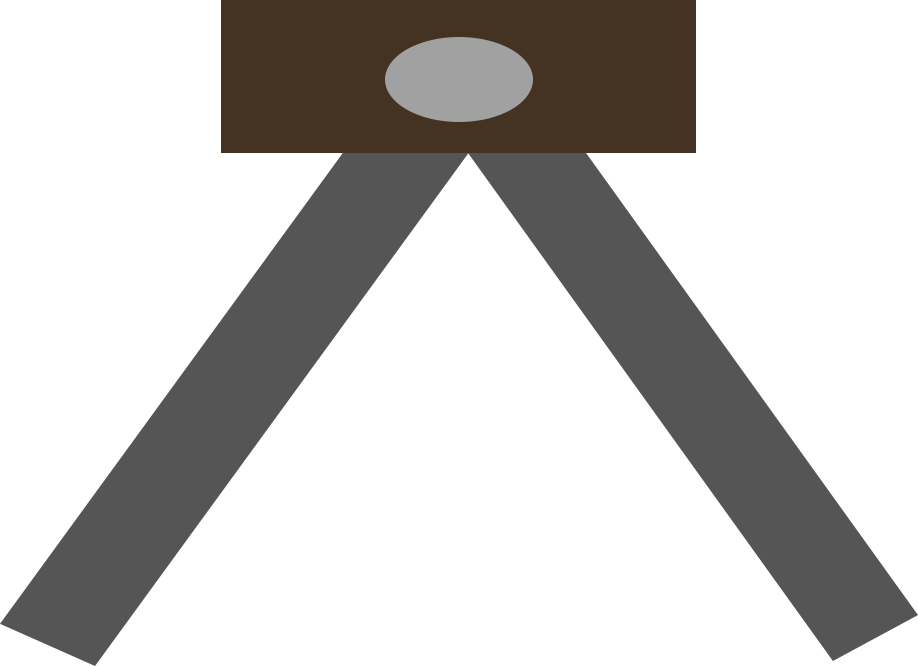
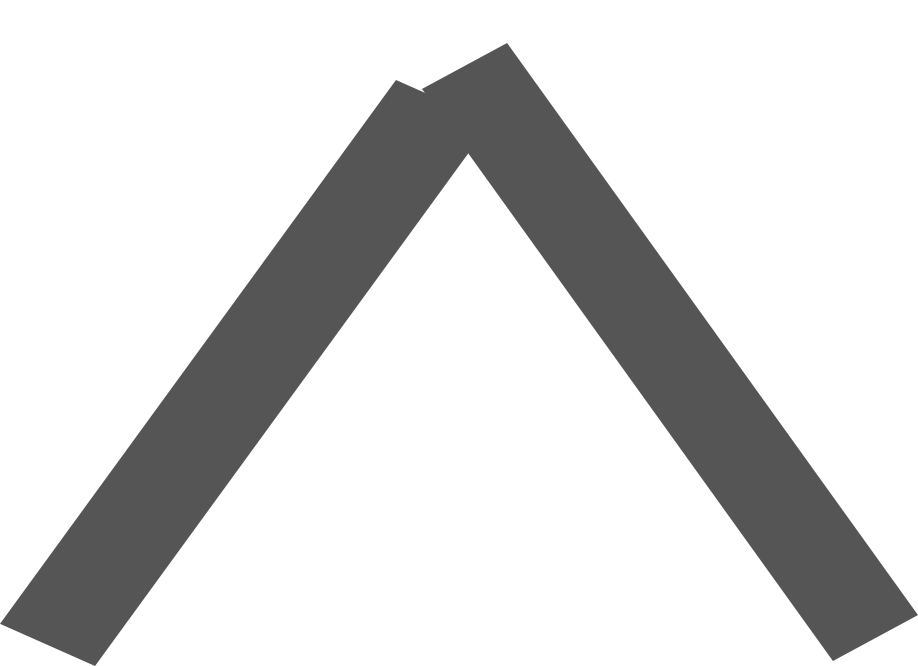
lever 1 more functionality added

Changed region(s): [[0.2135, 0.0, 0.7625, 0.2402]]

diff --git a/pocket_prayogshala/lib/lever1.dart b/pocket_prayogshala/lib/lever1.dart
@@ -1,6 +1,7 @@
 import 'dart:async';
 import 'dart:ffi';
 import 'dart:math';
+import 'dart:ui' hide TextStyle;
 import 'package:flame/events.dart';
 import 'package:flame/experimental.dart';
 import 'package:flutter/material.dart';
@@ -30,6 +31,7 @@ class Lever1Game extends FlameGame with DragCallbacks {
   SpriteComponent plankRod = SpriteComponent();
   SpriteComponent fulcrum = SpriteComponent();
   SpriteComponent grass = SpriteComponent();
+  // TextComponent weight = TextComponent('10kg');
   List<MyDragSpriteComponent> weights = [];
   List<MyDragSpriteComponent> humans = [];
   List<int> takenPosition = [0, 0, 0, 0, 0, 0, 0, 0, 0, 0];
@@ -45,6 +47,8 @@ class Lever1Game extends FlameGame with DragCallbacks {
   List<Vector2> snappablePositionsMain = [];
   late double gap;
 
+  late final style = TextStyle(color: Color(0xffffffff));
+  late final regular = TextPaint(style: style);
   // !!!!!!!!!!!!
   // this might not work for testing
   // @override
@@ -68,10 +72,11 @@ class Lever1Game extends FlameGame with DragCallbacks {
     add(backgroundImage);
 
     plankRod
-      ..anchor = Anchor.center
+      ..anchor = Anchor.bottomCenter
       ..sprite = await loadSprite('plank.png')
       ..size = Vector2(0.7 * screenWidth, 0.05 * screenHeight)
-      ..y = screenHeight / 2
+      ..y = screenHeight * 0.52
+      ..priority = 1
       ..x = screenWidth / 2;
     add(plankRod);
 
@@ -80,9 +85,10 @@ class Lever1Game extends FlameGame with DragCallbacks {
     fulcrum
       ..anchor = Anchor.center
       ..sprite = await loadSprite('plankBase.png')
-      ..size = Vector2(150, 150)
+      ..size = Vector2(0.1 * screenWidth, 0.25 * screenHeight)
       ..y = screenHeight / 2 + 0.11 * screenHeight
-      ..x = screenWidth / 2 - 0.005 * screenWidth;
+      ..priority = 0
+      ..x = screenWidth / 2;
     add(fulcrum);
 
     grass
@@ -93,13 +99,12 @@ class Lever1Game extends FlameGame with DragCallbacks {
       ..x = screenWidth / 2;
     add(grass);
 
-    // snappablePositions.addAll(
-    //     Vector2(plankRod.x - plankRod.size.x / 2, plankRod.y),
-    //     Vector2(plankRod.x - plankRod.size.x / 2 + gap, plankRod.y),
-    //     Vector2(plankRod.x - plankRod.size.x / 2 + 2 * gap, plankRod.y),
-    //     Vector2(plankRod.x - plankRod.size.x / 2 + 3 * gap, plankRod.y),
-    //     Vector2(plankRod.x - plankRod.size.x / 2 + 4 * gap, plankRod.y));
+    add(TextComponent(text: 'Hello, Flame', textRenderer: regular)
+      ..anchor = Anchor.topCenter
+      ..x = screenWidth / 2 // size is a property from game
+      ..y = 32.0);
 
+    print(plankRod.size);
     for (int i = 0; i < 5; i++) {
       snappablePositionsMain
           .add(Vector2(plankRod.x - plankRod.size.x / 2 + i * gap, plankRod.y));
@@ -180,7 +185,6 @@ class Lever1Game extends FlameGame with DragCallbacks {
   void update(double dt) {
     super.update(dt);
     tilt = isBalanced();
-    //print(size);
     if (plankRod.angle >= -100 && plankRod.angle <= 0.0 && tilt == 0) {
       if (plankRod.angle.abs() <= minSnappingAngle) {
         plankRod.angle = 0;
@@ -202,19 +206,26 @@ class Lever1Game extends FlameGame with DragCallbacks {
     } else if (tilt == -1) {
       plankRod.angle -= .5 * dt;
     }
+    late int tempIndex;
 
+    for (int i = 1; i < 5; i++) {}
     weights.forEach((element) {
       if (element.onWeight == true && element._isDragged == false) {
         element.angle = plankRod.angle;
-        element.x = plankRod.x - element.distFromFulcrum * cos(element.angle);
-        element.y = plankRod.y - element.distFromFulcrum * sin(element.angle);
+        // element.x = plankRod.x - snappablePositions[element.onBalancePos] * cos(element.angle);
+        // element.y = plankRod.y - element.distFromFulcrum * sin(element.angle);
+        //alternative form for calculating distFromFulcrum
+        element.x = snappablePositions[element.onBalancePos].x;
+        element.y = snappablePositions[element.onBalancePos].y;
       }
     });
     humans.forEach((element) {
       if (element.onWeight == true && element._isDragged == false) {
         element.angle = plankRod.angle;
-        element.x = plankRod.x - element.distFromFulcrum * cos(element.angle);
-        element.y = plankRod.y - element.distFromFulcrum * sin(element.angle);
+        // element.x = plankRod.x - element.distFromFulcrum * cos(element.angle);
+        // element.y = plankRod.y - element.distFromFulcrum * sin(element.angle);
+        element.x = snappablePositions[element.onBalancePos].x;
+        element.y = snappablePositions[element.onBalancePos].y;
       }
     });
     //
@@ -232,7 +243,6 @@ class Lever1Game extends FlameGame with DragCallbacks {
     }
 
     print(snappablePositions);
-    //print(updateSnapPos(Vector2(1, 0), Vector2(0, 0), pi / 2));
   }
 }
 
@@ -246,6 +256,11 @@ class MyDragSpriteComponent extends SpriteComponent
   FutureOr<void> onLoad() {
     return super.onLoad();
     snappablePositions = gameRef.snappablePositions;
+    gameRef
+        .add((TextComponent(text: 'Hello, Flame', textRenderer: gameRef.regular)
+          ..anchor = Anchor.topCenter
+          ..x = gameRef.size[0] / 2 // size is a property from game
+          ..y = 32.0));
   }
 
   static double snapDistance = 80;
@@ -254,7 +269,7 @@ class MyDragSpriteComponent extends SpriteComponent
   int onBalancePos = 1000;
   bool onWeight = false;
   // this is temporary
-  int distFromFulcrum = 250;
+  late double distFromFulcrum;
   // final _paint = Paint();
   bool _isDragged = false;
   bool human = false;
@@ -293,11 +308,10 @@ class MyDragSpriteComponent extends SpriteComponent
     int minIndex = distance.indexOf(minDistance);
     snapPosition = Vector2(gameRef.snappablePositions[minIndex].x,
         gameRef.snappablePositions[minIndex].y);
-    if (!human) {
-      snapPosition.y += 10;
-    }
     late bool snappable;
-    (minDistance <= snapDistance) ? snappable = true : snappable = false;
+    (minDistance <= snapDistance && gameRef.takenPosition[minIndex] == 0)
+        ? snappable = true
+        : snappable = false;
     // till this point we have
     // minDistance - that gives the distance to the closest snappable point
     // snapPosition - where to snap if snapped
@@ -324,12 +338,6 @@ class MyDragSpriteComponent extends SpriteComponent
     }
   }
 
-  // @override
-  // void update(double dt) {
-  //   // TODO: implement update
-  //   super.update(dt);
-  // }
-
   void resetSnap() {
     position.setFrom(initialPosition);
     angle = 0;
@@ -344,7 +352,7 @@ class MyDragSpriteComponent extends SpriteComponent
     position.setFrom(snapPosition);
     onBalancePos = index;
     gameRef.takenPosition[index] = 1;
-    distFromFulcrum = 500 - position.x.toInt();
+    distFromFulcrum = ((gameRef.plankRod.size.x) - snapPosition.x);
     onWeight = true;
   }
 }
